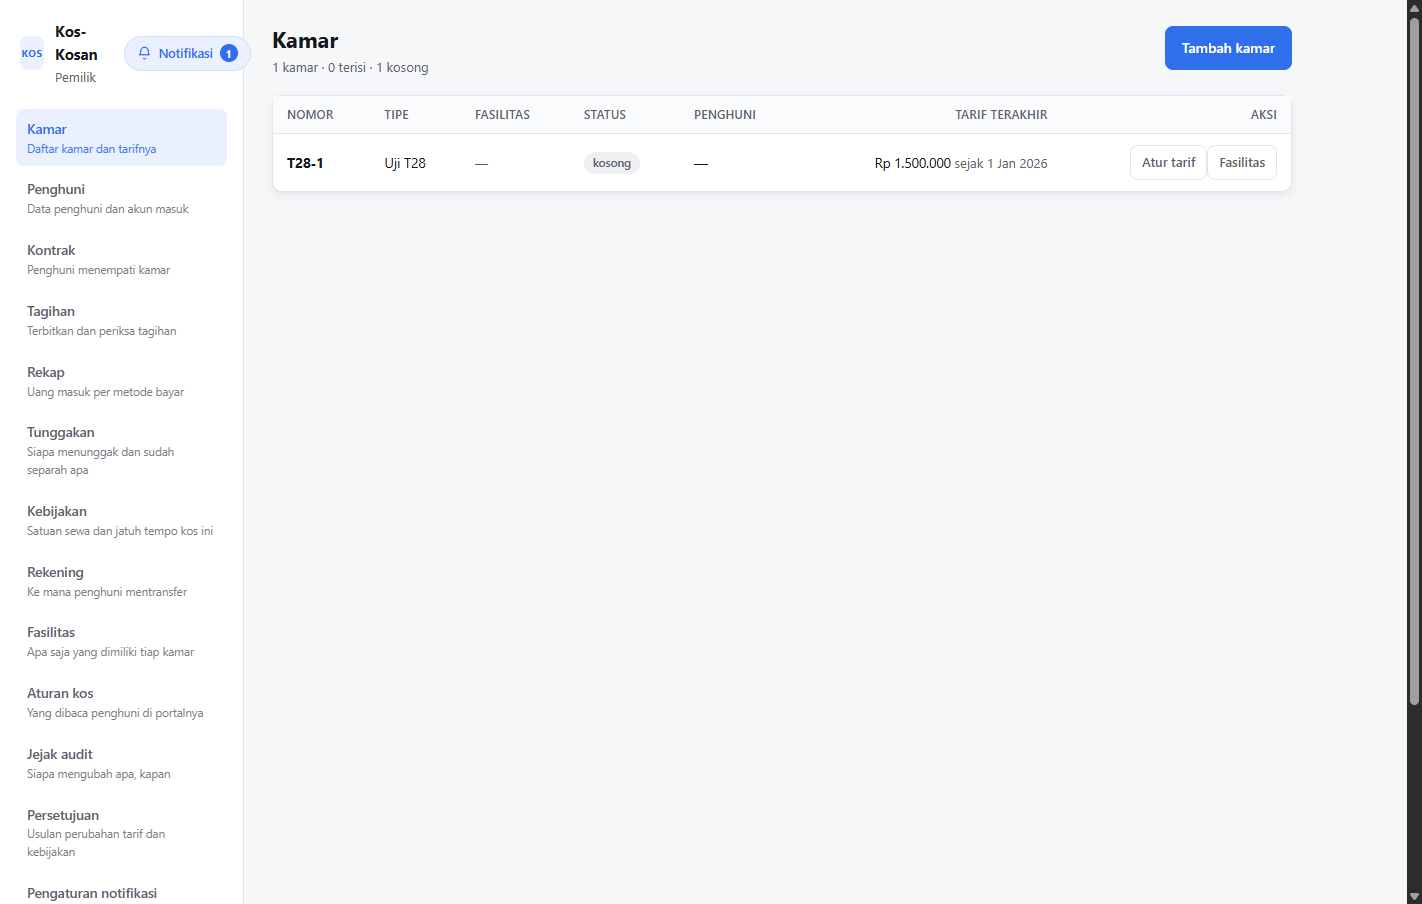
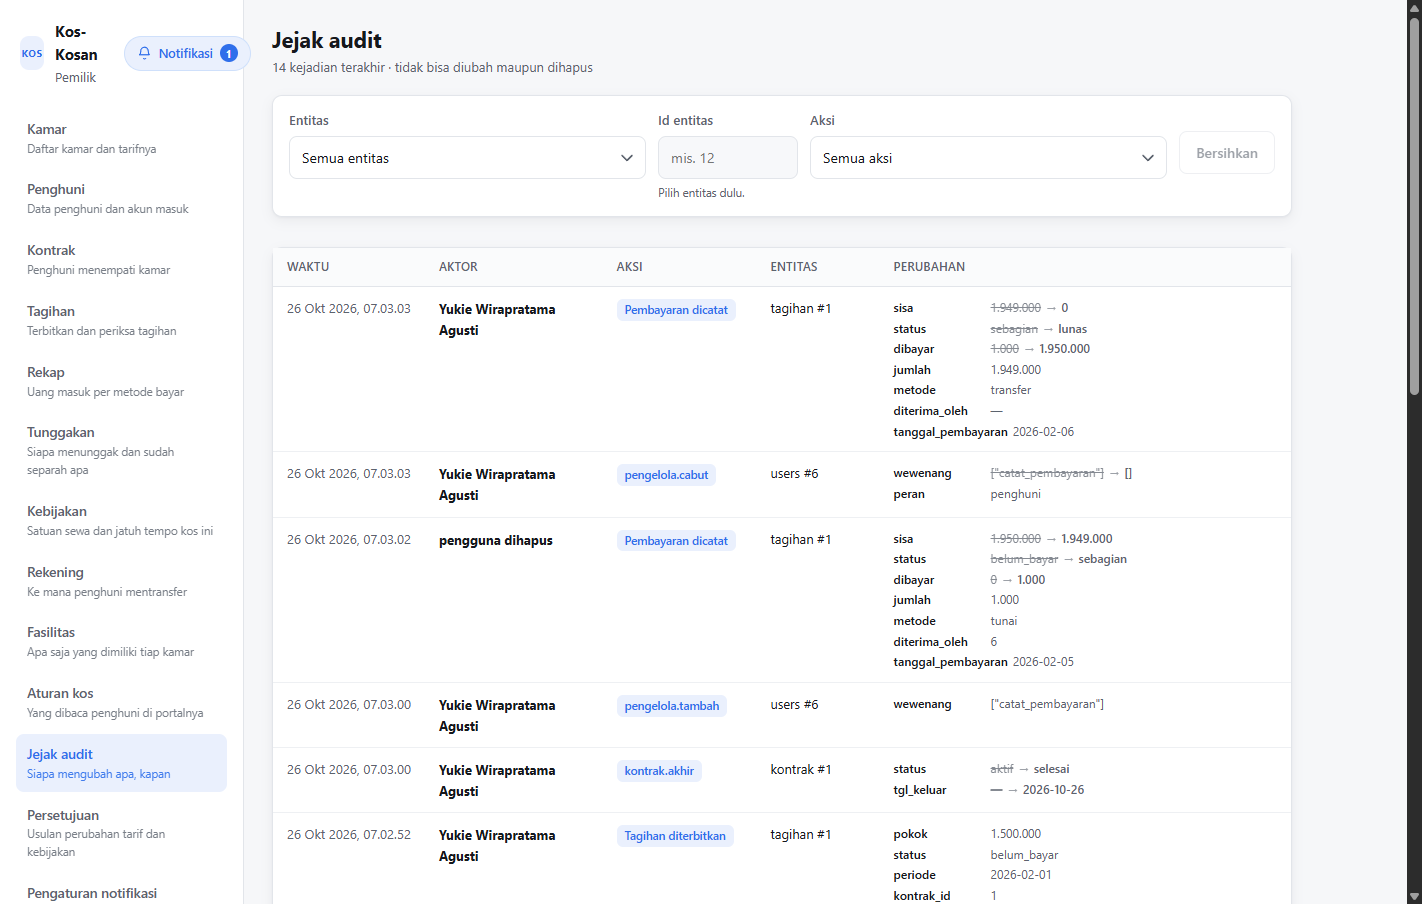
Perbaiki bukti tangkapan layar yang memotret halaman yang salah
Dua "bukti" di `docs/uji` ternyata **byte-identik** satu sama lain, dan isinya
halaman **Kamar** — bukan jejak audit. Penyebabnya bukan renderer: `e2e-t28`
memang memanggil `/audit-log` lewat API, tetapi tidak pernah berpindah halaman,
lalu memotret apa pun yang sedang terbuka. Karena dua potret itu diambil pada
halaman yang sama tanpa perubahan di antaranya, hasilnya pun sama persis.

Ini jenis cacat yang paling merugikan pada dokumen bukti: berkasnya ada,
namanya meyakinkan, ukurannya wajar, dan tidak ada yang gagal. Yang hilang hanya
kaitannya dengan yang diklaim. Penguji yang membuka lampiran akan melihat daftar
kamar sambil membaca keterangan tentang anonimisasi jejak audit.

Sekarang kedua potret membuka halamannya lebih dulu, dan yang ditunggu adalah
**baris yang menyebut "pengguna dihapus"** — bukan sekadar `.tabel-audit` ada.
Tabel kosong atau tabel yang masih memuat nama lama akan lolos kalau yang
ditunggu hanya keberadaan tabelnya. Dua langkah laporan ditambahkan untuk
keduanya (39 -> 41 langkah), sehingga kalau halamannya berubah lagi, skripnya
gagal alih-alih diam-diam memotret tempat lain.

**Mojibake di antarmuka sungguhan.** Saat memeriksa potret `T28-data-pribadi`
terlihat teks `â€"` pada halaman Data pribadi. Itu bukan artefak konsol — byte di
`PengaturanPdpView.vue` memang `C3 A2 E2 82 AC E2 80 9D`, yaitu em-dash U+2014
yang pernah dibaca sebagai CP1252 lalu disimpan kembali sebagai UTF-8. Sebelas
[…]

diff --git a/web/src/views/PengaturanPdpView.vue b/web/src/views/PengaturanPdpView.vue
@@ -125,15 +125,15 @@ onMounted(muat)
         <dl class="daftar-data">
           <div>
             <dt>Nama akun</dt>
-            <dd>{{ data.akun?.nama || 'â€”' }}</dd>
+            <dd>{{ data.akun?.nama || '—' }}</dd>
           </div>
           <div>
             <dt>Email</dt>
-            <dd>{{ data.akun?.email || 'â€”' }}</dd>
+            <dd>{{ data.akun?.email || '—' }}</dd>
           </div>
           <div>
             <dt>Peran</dt>
-            <dd>{{ data.akun?.peran || 'â€”' }}</dd>
+            <dd>{{ data.akun?.peran || '—' }}</dd>
           </div>
           <div>
             <dt>Status akun</dt>
@@ -141,11 +141,11 @@ onMounted(muat)
           </div>
           <div v-if="data.penghuni">
             <dt>Nama pada data induk</dt>
-            <dd>{{ data.penghuni.nama || 'â€”' }}</dd>
+            <dd>{{ data.penghuni.nama || '—' }}</dd>
           </div>
           <div v-if="data.penghuni">
             <dt>Nomor HP</dt>
-            <dd>{{ data.penghuni.no_hp || 'â€”' }}</dd>
+            <dd>{{ data.penghuni.no_hp || '—' }}</dd>
           </div>
         </dl>
 
@@ -168,9 +168,9 @@ onMounted(muat)
             </thead>
             <tbody>
               <tr v-for="k in data.kontrak || []" :key="k.id">
-                <td><strong>{{ k.kamar || 'â€”' }}</strong></td>
-                <td>{{ k.tgl_masuk || 'â€”' }}</td>
-                <td>{{ k.tgl_keluar || 'â€”' }}</td>
+                <td><strong>{{ k.kamar || '—' }}</strong></td>
+                <td>{{ k.tgl_masuk || '—' }}</td>
+                <td>{{ k.tgl_keluar || '—' }}</td>
                 <td>
                   <span class="lencana-status" :class="`status-${k.status}`">{{ k.status }}</span>
                 </td>
@@ -195,7 +195,7 @@ onMounted(muat)
             <tbody>
               <tr v-for="p in data.persetujuan || []" :key="p.versi">
                 <td><strong>{{ p.versi }}</strong></td>
-                <td>{{ p.disetujui_pada || 'â€”' }}</td>
+                <td>{{ p.disetujui_pada || '—' }}</td>
               </tr>
               <BarisKosong v-if="!data.persetujuan || data.persetujuan.length === 0" :kolom="2">
                 Belum ada persetujuan tercatat.
@@ -207,7 +207,7 @@ onMounted(muat)
         <p class="bantuan mungil">
           Persetujuan bersifat bukti, bukan setelan: ia tidak bisa diubah atau dihapus, dan versi
           baru menuntut persetujuan baru. Versi yang berlaku sekarang:
-          <strong>{{ meta.versi_pdp || 'â€”' }}</strong>.
+          <strong>{{ meta.versi_pdp || '—' }}</strong>.
         </p>
       </PanelKartu>
 
@@ -227,7 +227,7 @@ onMounted(muat)
                 <td class="lemah mungil">
                   {{ j.entitas }}<template v-if="j.entitas_id"> #{{ j.entitas_id }}</template>
                 </td>
-                <td class="lemah mungil">{{ j.dibuat_pada || 'â€”' }}</td>
+                <td class="lemah mungil">{{ j.dibuat_pada || '—' }}</td>
               </tr>
               <BarisKosong v-if="!data.jejak_terkait || data.jejak_terkait.length === 0" :kolom="3">
                 Belum ada tindakan tercatat atas nama Anda.

diff --git a/api/tests/Feature/KebijakanKosTest.php b/api/tests/Feature/KebijakanKosTest.php
@@ -20,11 +20,11 @@ use Tests\Concerns\MenyiapkanKebijakan;
 use Tests\TestCase;
 
 /**
- * T16 â€” kebijakan kos sebagai data, dan gerbang yang memaksanya diisi.
+ * T16 — kebijakan kos sebagai data, dan gerbang yang memaksanya diisi.
  *
  * Sebelum T16, cara menagih tertanam di kode: satuan selalu bulanan, jatuh
  * tempo selalu mengikuti tanggal masuk. Itu satu kos tertentu yang diangkat
- * jadi program, padahal tesis proyek ini justru sebaliknya â€” tiap kos berbeda.
+ * jadi program, padahal tesis proyek ini justru sebaliknya — tiap kos berbeda.
  *
  * Yang dibuktikan di sini:
  *   1. Default kos berlaku untuk semua kamar; penimpa kamar menang atas default.
@@ -158,7 +158,7 @@ class KebijakanKosTest extends TestCase
 
         $this->kebijakan(PilihanKebijakan::TIPE_SATUAN_SEWA, PilihanKebijakan::SATUAN_BULANAN);
         // Kamar A: harian. Berlaku dari tanggal yang sama, jadi yang membedakan
-        // hanya kamar_id â€” bukan tanggal.
+        // hanya kamar_id — bukan tanggal.
         $this->kebijakan(PilihanKebijakan::TIPE_SATUAN_SEWA, PilihanKebijakan::SATUAN_HARIAN, [
             'kamar_id' => $kamarA->id,
         ]);
@@ -191,7 +191,7 @@ class KebijakanKosTest extends TestCase
 
         // Yang menentukan adalah tingkatnya (kamar > global), bukan tanggalnya.
         // Kalau urutannya terbalik, mengubah default kos akan diam-diam
-        // menimpa penimpa per kamar yang lebih tua â€” kesalahan yang sulit
+        // menimpa penimpa per kamar yang lebih tua — kesalahan yang sulit
         // terlihat karena hasilnya tetap "salah satu dari dua nilai sah".
         $this->assertSame(
             PilihanKebijakan::SATUAN_HARIAN,
@@ -721,7 +721,7 @@ class KebijakanKosTest extends TestCase
 
         // Tanpa NULLS NOT DISTINCT, dua baris default (kamar_id NULL) dianggap
         // berbeda dan PenyelesaiKebijakan memilih salah satunya berdasarkan
-        // urutan fisik â€” yang tidak dijamin apa pun.
+        // urutan fisik — yang tidak dijamin apa pun.
         $this->expectException(QueryException::class);
         $this->expectExceptionCode('23505');
 

diff --git a/docs/produk/7_TESTING_EVALS.md b/docs/produk/7_TESTING_EVALS.md
@@ -4,7 +4,7 @@
 > bagaimana menambah tes yang benar-benar menahan.**
 >
 > Angka diambil dari aplikasi yang berjalan: **748 tes PHP (3522 asersi)** dalam
-> 36 berkas, dan **26 skrip uji** (24 browser + 2 balapan HTTP) dengan **758 langkah**.
+> 36 berkas, dan **26 skrip uji** (24 browser + 2 balapan HTTP) dengan **760 langkah**.
 
 Versi 1.0 · 26 Oktober 2026
 
@@ -176,7 +176,7 @@ Dikelompokkan menurut apa yang dijaga:
 
 ---
 
-## 4. Skrip uji browser dan balapan - 26 skrip, 758 langkah
+## 4. Skrip uji browser dan balapan - 26 skrip, 760 langkah
 
 ### 4.1 Menjalankan
 
